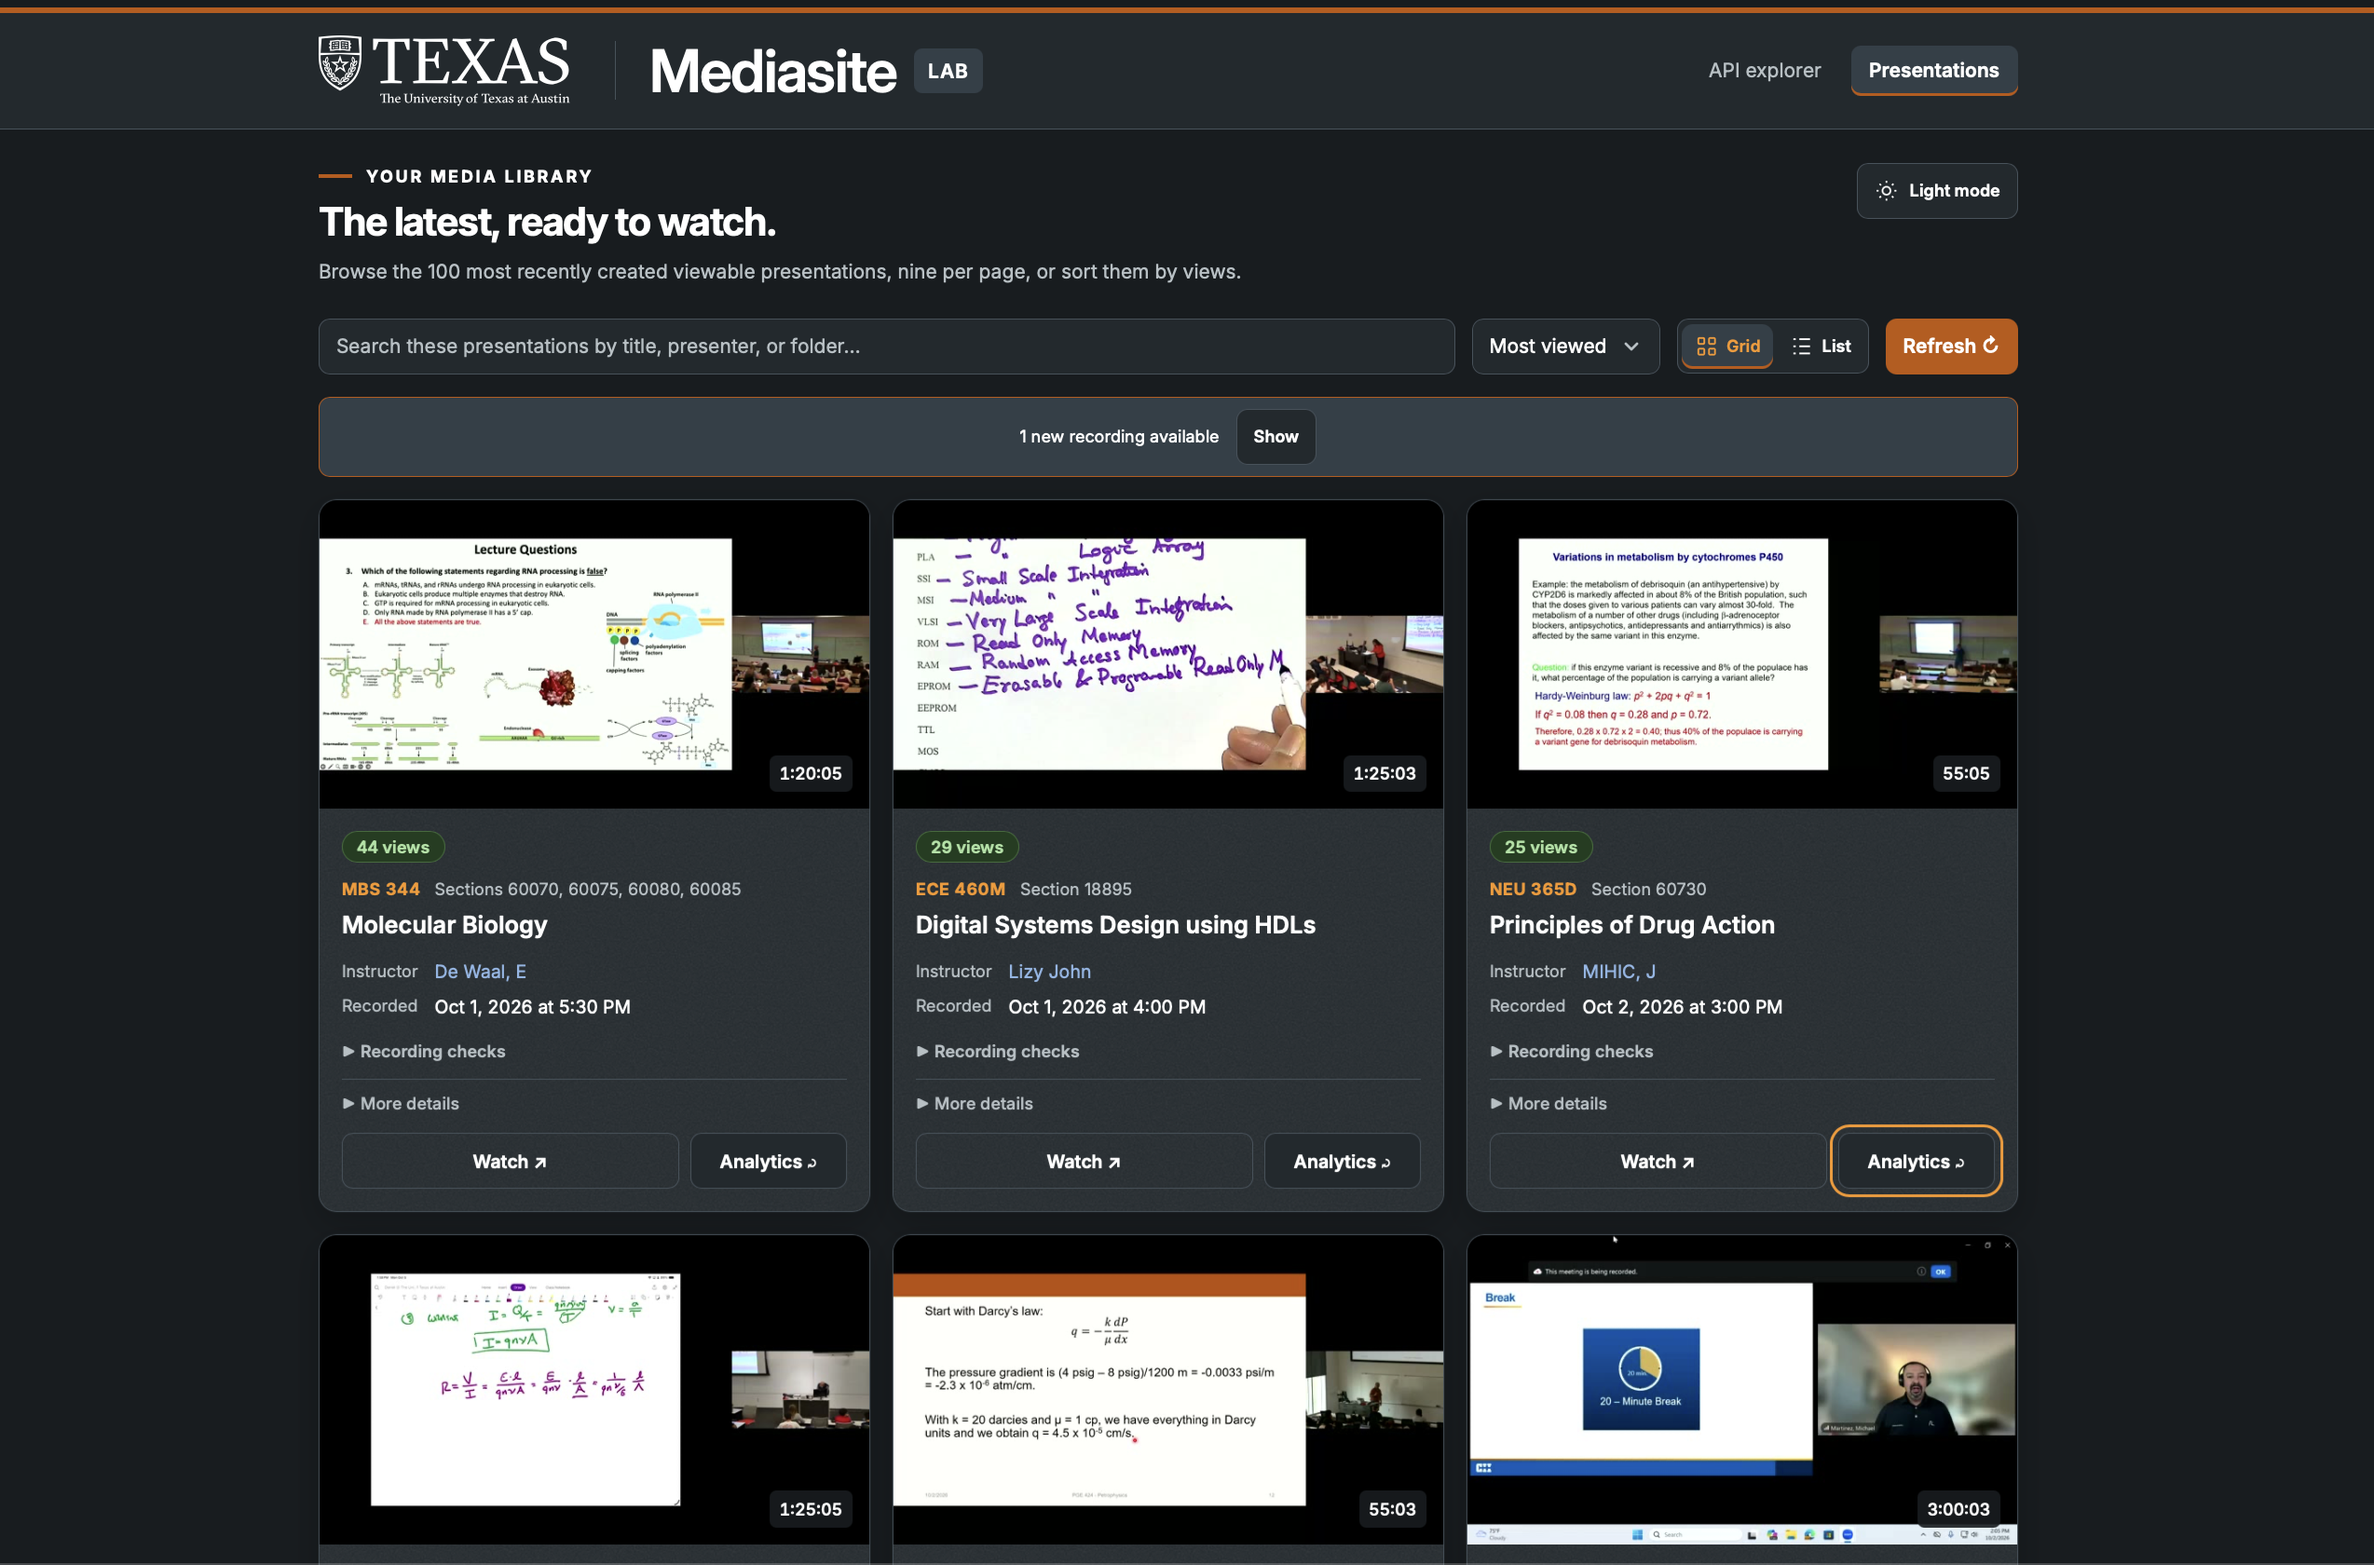
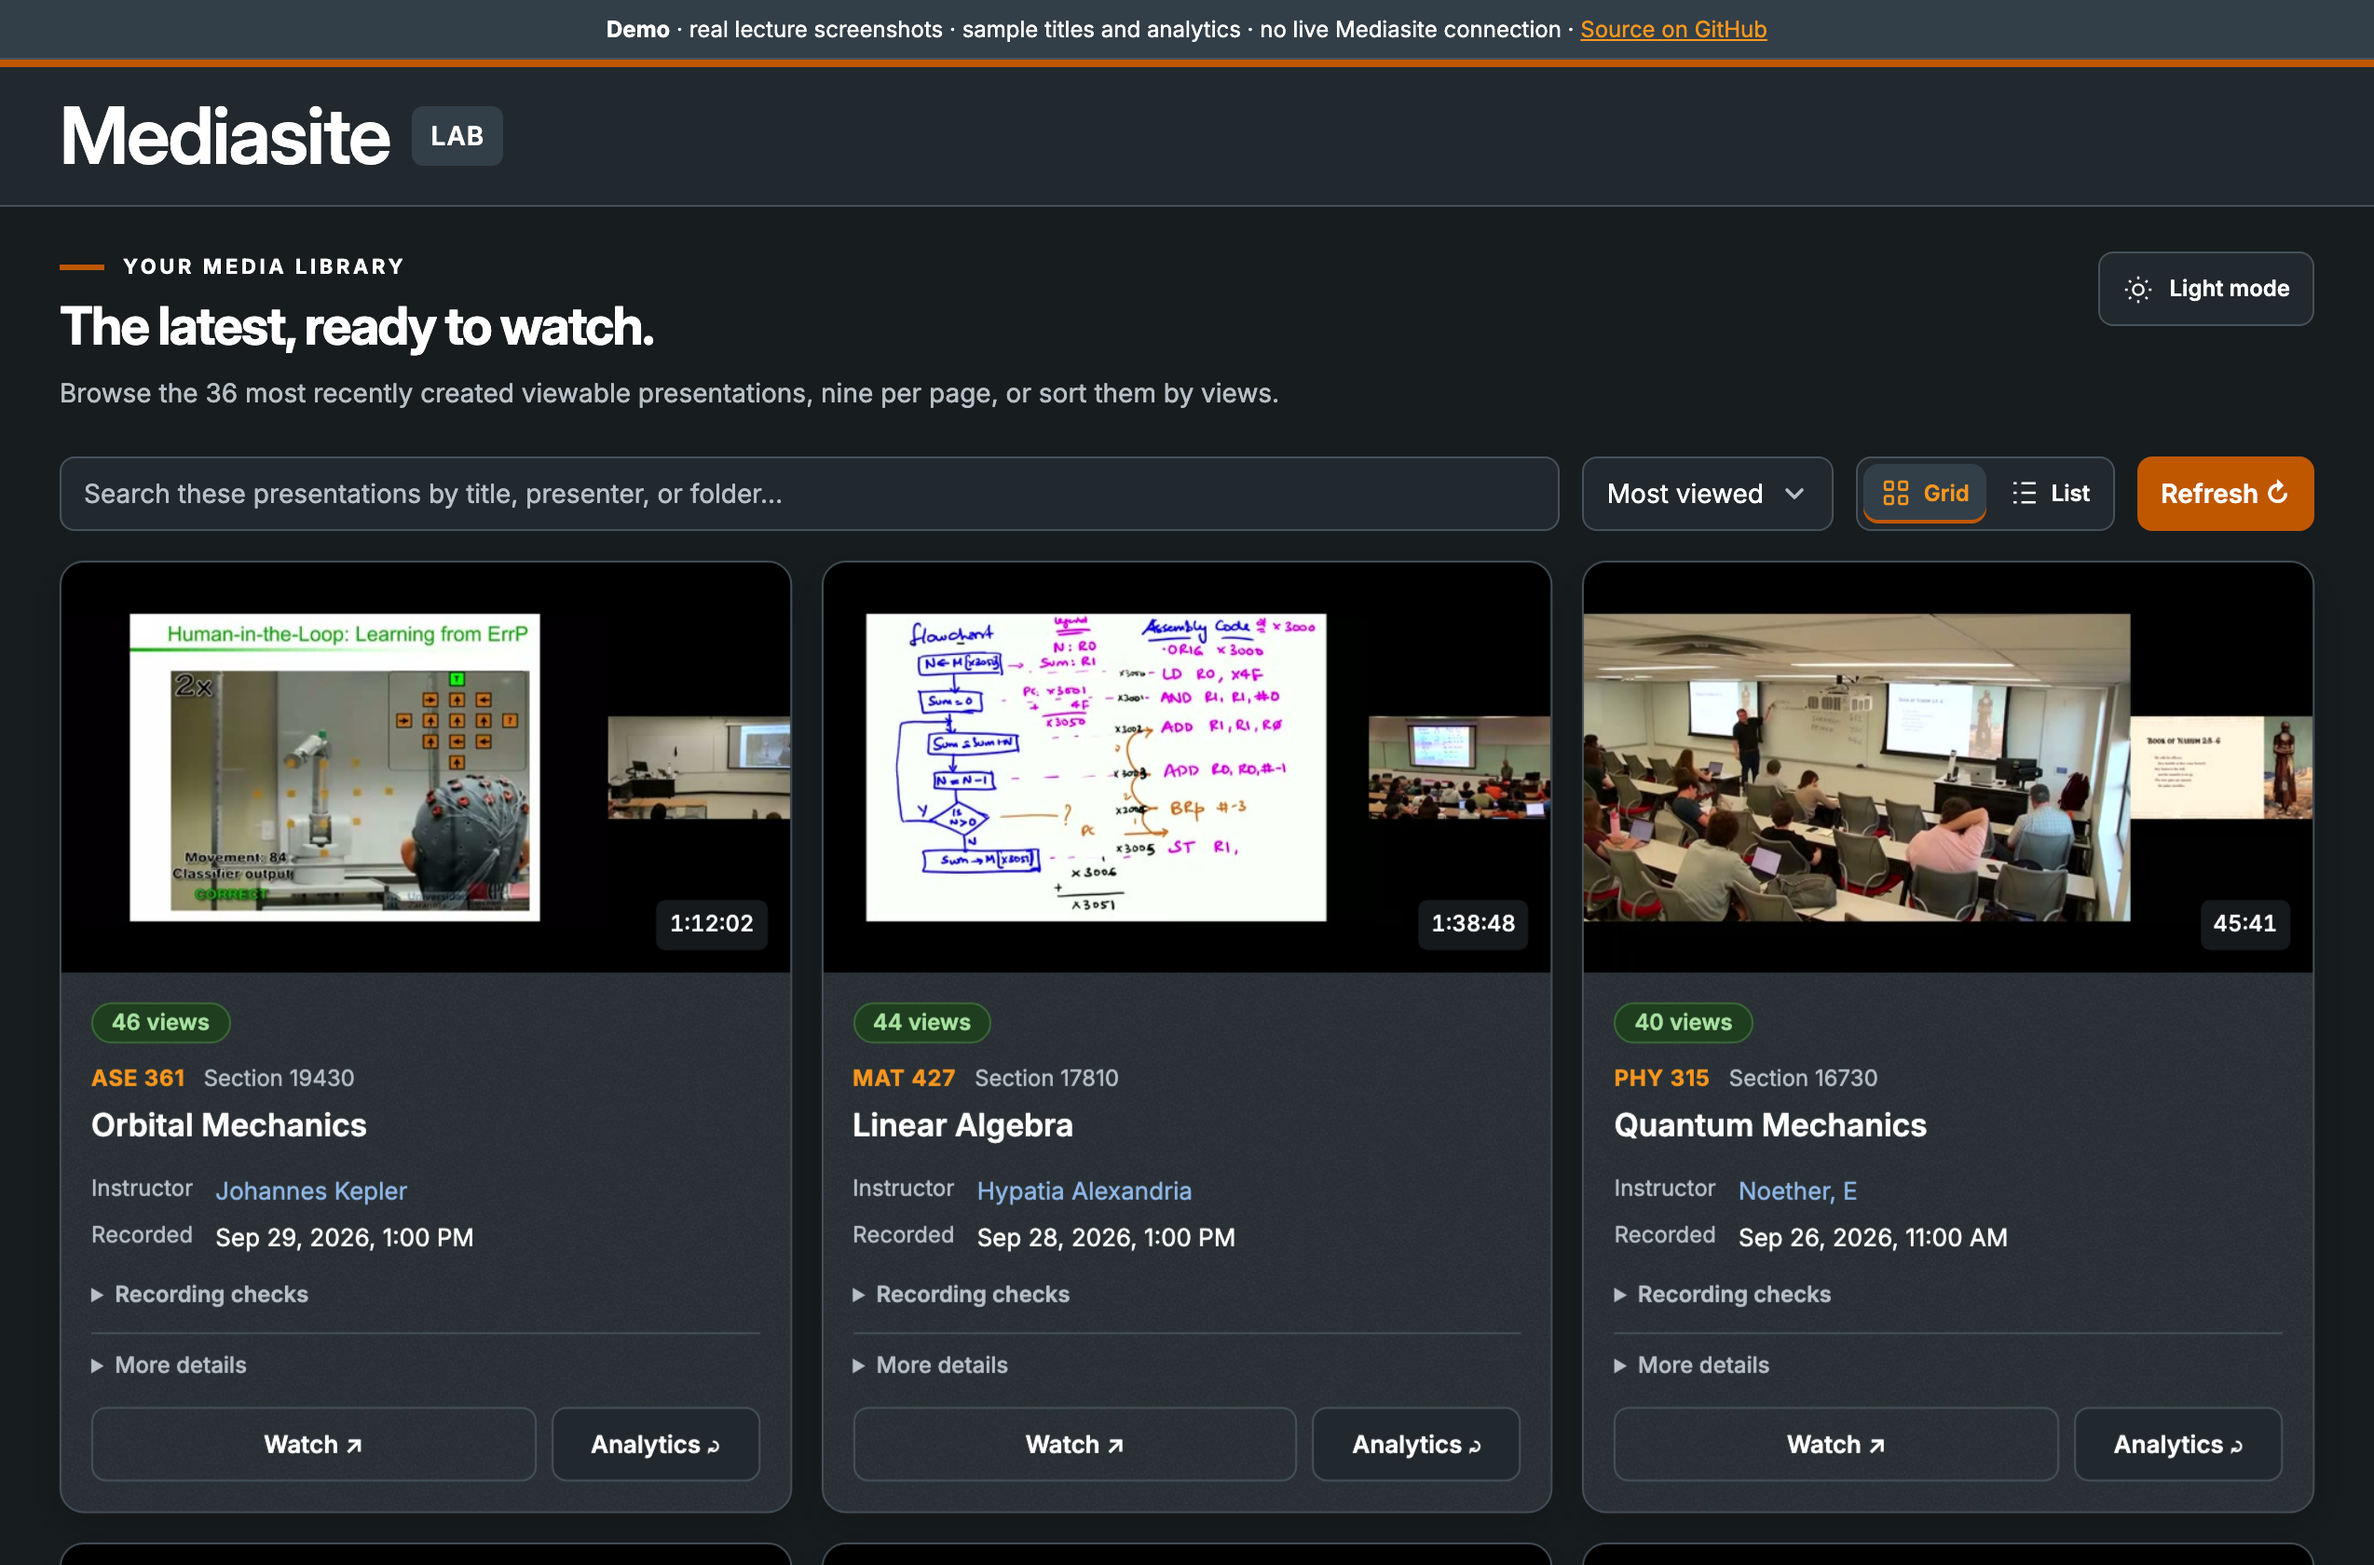
Remove default server, block redirects, replace real-data screenshot
- Remove the built-in default Mediasite server; API calls require an https
  base URL (http only for localhost) without embedded credentials.
- API requests and the thumbnail proxy no longer follow redirects, which
  would forward the API key header.
- Replace the README screenshot, which showed real instructor names and
  view counts, with one of the sample-data demo.
- Add a guard test against tracked env/key files, real hosts, and tokens.

diff --git a/test/mediasite.test.js b/test/mediasite.test.js
@@ -1,7 +1,12 @@
 const { test } = require("node:test");
 const assert = require("node:assert/strict");
 const http = require("node:http");
-const { getConfig, authHeaders, callApi } = require("../mediasite");
+const {
+  getConfig,
+  configProblem,
+  authHeaders,
+  callApi,
+} = require("../mediasite");
 
 const clearEnv = () => {
   for (const key of [
@@ -13,13 +18,11 @@ const clearEnv = () => {
     delete process.env[key];
 };
 
-test("config falls back to the default site and trims trailing slashes", (t) => {
+test("config has no default site and trims trailing slashes", (t) => {
   clearEnv();
   t.after(clearEnv);
-  assert.equal(
-    getConfig().baseUrl,
-    "https://utengr.mediasite.com/Mediasite/Api/v1",
-  );
+  assert.equal(getConfig().baseUrl, "");
+  assert.match(configProblem(getConfig()), /base URL/);
   process.env.MEDIASITE_BASE_URL = "https://example.test/Api/v1///";
   assert.equal(getConfig().baseUrl, "https://example.test/Api/v1");
 });
@@ -81,4 +84,38 @@ test("callApi sends credentials, normalizes the path, and reports timing", async
   await callApi(cfg, { method: "POST", path: "/Things", body: '{"a":1}' });
   assert.equal(seen[1].method, "POST");
   assert.equal(seen[1].headers["content-type"], "application/json");
+});
+
+test("the base URL must be https (or loopback http) without credentials", () => {
+  const problem = (baseUrl) => configProblem({ baseUrl });
+  assert.equal(problem("https://media.example.edu/Mediasite/Api/v1"), null);
+  assert.equal(problem("http://localhost:8080/Api/v1"), null);
+  assert.match(problem("http://media.example.edu/Api/v1"), /https/);
+  assert.match(problem("https://user:pw@media.example.edu/Api/v1"), /username/);
+  assert.match(problem("not a url"), /valid/);
+});
+
+test("API calls refuse to run without a usable base URL", async () => {
+  await assert.rejects(
+    callApi({ baseUrl: "", username: "", password: "", apiKey: "" }, {}),
+    { status: 400, message: /base URL/ },
+  );
+});
+
+test("API calls refuse redirects instead of forwarding the key", async (t) => {
+  const redirector = http.createServer((req, res) => {
+    res.writeHead(302, { Location: "http://127.0.0.1:1/elsewhere" });
+    res.end();
+  });
+  await new Promise((resolve) => redirector.listen(0, "127.0.0.1", resolve));
+  t.after(() => redirector.close());
+  await assert.rejects(
+    callApi(
+      {
+        baseUrl: `http://127.0.0.1:${redirector.address().port}/Api/v1`,
+        apiKey: "secret",
+      },
+      {},
+    ),
+  );
 });

diff --git a/mediasite.js b/mediasite.js
@@ -1,17 +1,39 @@
 // Shared Mediasite helpers: connection config, auth headers, and request calls.
-const DEFAULT_BASE = "https://utengr.mediasite.com/Mediasite/Api/v1";
 
+// There is deliberately no default server: credentials are only ever sent where you point them.
 function getConfig(overrides = {}) {
   return {
     baseUrl: (
       overrides.baseUrl ||
       process.env.MEDIASITE_BASE_URL ||
-      DEFAULT_BASE
+      ""
     ).replace(/\/+$/, ""),
     username: overrides.username ?? process.env.MEDIASITE_USERNAME ?? "",
     password: overrides.password ?? process.env.MEDIASITE_PASSWORD ?? "",
     apiKey: overrides.apiKey ?? process.env.MEDIASITE_API_KEY ?? "",
   };
+}
+
+const LOOPBACK = /^(localhost|127\.0\.0\.1|\[::1\])$/i;
+
+// Your login and API key are sent to the base URL, so it must be set, use https (http only for
+// this machine), and not embed credentials. Returns a message, or null when usable.
+function configProblem(cfg) {
+  if (!cfg.baseUrl)
+    return "Set the Mediasite base URL (MEDIASITE_BASE_URL, or the Connection panel), for example https://YOUR-SERVER/Mediasite/Api/v1.";
+  try {
+    const url = new URL(cfg.baseUrl);
+    const secure =
+      url.protocol === "https:" ||
+      (url.protocol === "http:" && LOOPBACK.test(url.hostname));
+    if (!secure)
+      return "The base URL must be an https:// address (http:// only for localhost).";
+    if (url.username || url.password)
+      return "The base URL must not contain a username or password.";
+  } catch {
+    return "The base URL is not a valid URL.";
+  }
+  return null;
 }
 
 // Basic auth (when a username is set) plus the sfapikey header (when a key is set).
@@ -29,6 +51,8 @@ async function callApi(
   cfg,
   { method = "GET", path = "/Home", body, contentType },
 ) {
+  const problem = configProblem(cfg);
+  if (problem) throw Object.assign(new Error(problem), { status: 400 });
   const headers = { Accept: "application/json", ...authHeaders(cfg) };
   if (body) headers["Content-Type"] = contentType || "application/json";
 
@@ -38,6 +62,8 @@ async function callApi(
     method,
     headers,
     body: body || undefined,
+    // A redirect would carry the API key header to wherever it points.
+    redirect: "error",
     signal: AbortSignal.timeout(30000),
   });
   const text = await res.text();
@@ -51,4 +77,4 @@ async function callApi(
   };
 }
 
-module.exports = { getConfig, authHeaders, callApi };
+module.exports = { getConfig, configProblem, authHeaders, callApi };

diff --git a/test/public-repo.test.js b/test/public-repo.test.js
@@ -1,0 +1,62 @@
+// Guards for publishing this repository: nothing private should be tracked or hardcoded.
+const { test } = require("node:test");
+const assert = require("node:assert/strict");
+const { execFileSync } = require("node:child_process");
+const fs = require("node:fs");
+const path = require("node:path");
+
+const root = path.join(__dirname, "..");
+const tracked = () => {
+  try {
+    return execFileSync("git", ["ls-files", "-z"], { cwd: root })
+      .toString()
+      .split("\0")
+      .filter(Boolean);
+  } catch {
+    return null; // not a git checkout (for example an exported archive)
+  }
+};
+const TEXT =
+  /\.(js|mjs|ts|json|md|html|css|yml|svg|txt|example)$|^\.env\.example$/;
+
+test("no environment, key, or certificate files are tracked", (t) => {
+  const files = tracked();
+  if (!files) return t.skip("not a git checkout");
+  const bad = files.filter((f) => /(^|\/)\.env$|\.(pem|key|p12|pfx)$/i.test(f));
+  assert.deepEqual(bad, []);
+});
+
+test("tracked text has no real server, private key, or credential", (t) => {
+  const files = tracked();
+  if (!files) return t.skip("not a git checkout");
+  // Mediasite's own documentation sites are fine; an institution's server is not.
+  const PUBLIC_HOSTS = new Set([
+    "learn.mediasite.com",
+    "docs.mediasite.com",
+    "www.mediasite.com",
+    "support.mediasite.com",
+  ]);
+  const rules = [
+    [/-----BEGIN [A-Z ]*PRIVATE KEY-----/, "a private key"],
+    [/\b(?:ghp|gho|github_pat)_[A-Za-z0-9_]{20,}/, "a GitHub token"],
+    [/\bAKIA[0-9A-Z]{16}\b/, "an AWS access key"],
+  ];
+  const found = [];
+  for (const file of files) {
+    if (file === "test/public-repo.test.js" || !TEXT.test(file)) continue;
+    const text = fs.readFileSync(path.join(root, file), "utf8");
+    for (const [pattern, label] of rules)
+      if (pattern.test(text)) found.push(`${file}: ${label}`);
+    for (const [host] of text.matchAll(/[a-z0-9-]+\.mediasite\.com/gi))
+      if (!PUBLIC_HOSTS.has(host.toLowerCase()))
+        found.push(`${file}: a real Mediasite host (${host})`);
+  }
+  assert.deepEqual(found, []);
+});
+
+test(".env.example holds placeholders only", () => {
+  const text = fs.readFileSync(path.join(root, ".env.example"), "utf8");
+  for (const key of ["USERNAME", "PASSWORD", "API_KEY"])
+    assert.match(text, new RegExp(`^MEDIASITE_${key}=$`, "m"));
+  assert.match(text, /^MEDIASITE_BASE_URL=https:\/\/YOUR-SERVER\//m);
+});

diff --git a/routes/presentations.js b/routes/presentations.js
@@ -1,4 +1,4 @@
-const { callApi, authHeaders } = require("../mediasite");
+const { callApi, authHeaders, configProblem } = require("../mediasite");
 const { durationWarnings } = require("../recording-health");
 const { sendJson, SECURITY_HEADERS } = require("../http-utils");
 
@@ -42,11 +42,15 @@ async function recent(req, res, ctx) {
 // Proxy thumbnails with credentials, but only for the configured Mediasite host.
 async function thumbnail(req, res, ctx, url) {
   const cfg = ctx.config();
+  const problem = configProblem(cfg);
+  if (problem) return sendJson(res, 400, { error: problem });
   const target = new URL(url.searchParams.get("u"), cfg.baseUrl);
   if (target.origin !== new URL(cfg.baseUrl).origin)
     return sendJson(res, 400, { error: "Foreign host" });
   const up = await fetch(target, {
     headers: authHeaders(cfg),
+    // A redirect would carry the API key header to wherever it points.
+    redirect: "error",
     signal: AbortSignal.timeout(30000),
   });
   res.writeHead(up.status, {

diff --git a/CHANGELOG.md b/CHANGELOG.md
@@ -4,6 +4,13 @@ All notable changes to Mediasite Lab are documented here, newest first.
 
 ## [Unreleased]
 
+### Security
+
+- Removed the built-in default Mediasite server from the code, `.env.example`, and README. Set `MEDIASITE_BASE_URL` (or use the Connection panel); API calls now refuse to run without an `https` base URL (`http` only for localhost) that has no embedded credentials.
+- API requests and the thumbnail proxy no longer follow redirects, which would have forwarded the API key header to wherever the redirect pointed.
+- Replaced the README screenshot, which showed real instructor names and view counts, with one of the sample-data demo.
+- Added `test/public-repo.test.js`, which fails if an env or key file is tracked or tracked text names a real Mediasite host, private key, or common token.
+
 ### Added
 
 - A static demo for GitHub Pages (`npm run build:demo`, published by `.github/workflows/pages.yml` to `https://<user>.github.io/<repo>/`). It is the real UI running against a built-in sample API (`frontend/src/demo-api.ts`): fictional courses, people, sessions, and generated thumbnails, all derived from the same sessions so counts, charts, and the heatmap agree. No credentials or Mediasite data are involved, the demo code is absent from the normal build, and the demo omits the university wordmarks and carries a “sample data” banner. Chart links work on Pages through a `404.html` fallback, and the app now works from a sub-path (`import.meta.env.BASE_URL`).

diff --git a/README.md b/README.md
@@ -1,7 +1,7 @@
 # Mediasite API Tester
 
 A small Node app with a Vite + TypeScript front end for exploring the Mediasite REST API at
-`https://utengr.mediasite.com/Mediasite/Api/v1`.
+your server's `/Mediasite/Api/v1` address (set `MEDIASITE_BASE_URL`).
 
 Current version: **0.1.0**. See the [changelog](CHANGELOG.md) for release notes.
 
@@ -55,7 +55,7 @@ Already have a checkout? Run the last two commands in the folder containing
 
 ### 2. Get an API key
 
-1. Open `https://YOUR-SERVER/Mediasite/Api/Docs/ApiKeyRegistration.aspx` ([UT Engineering](https://utengr.mediasite.com/Mediasite/Api/Docs/ApiKeyRegistration.aspx)). Adjust the installation path for your server.
+1. Open `https://YOUR-SERVER/Mediasite/Api/Docs/ApiKeyRegistration.aspx`. Adjust the installation path for your server.
 2. Sign in as an administrator, enter an application name, and click **Submit**.
 3. Copy the generated key. If you lack access, ask your Mediasite administrator for a key and an API account.
 
@@ -73,8 +73,8 @@ MEDIASITE_API_KEY="your-generated-api-key"
 PORT=3000
 ```
 
-The supplied example defaults to UT Engineering. Keep `.env` private (it is
-gitignored), and restart the app after changing it.
+There is no default server; set `MEDIASITE_BASE_URL` to your own `https` address. Keep `.env`
+private (it is gitignored), and restart the app after changing it.
 
 ### 4. Run
 
